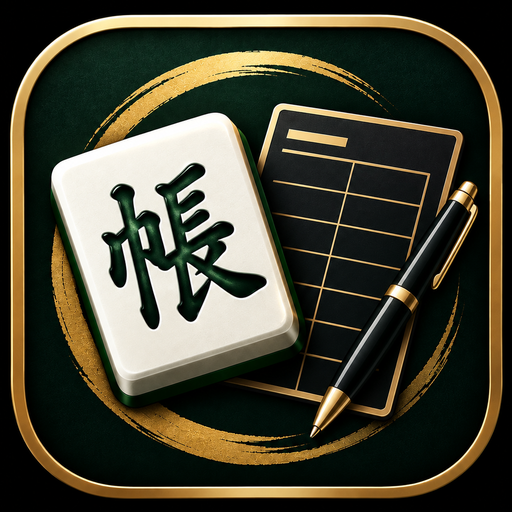
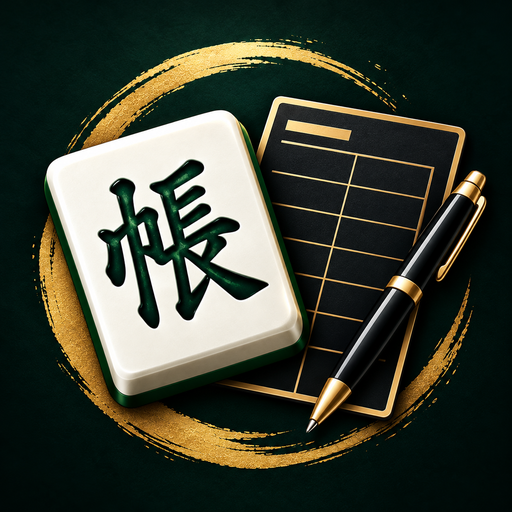
アプリのアイコンを新しいデザインに変更
Claude-Session: https://claude.ai/code/session_01Tiu41ygGN2nDzNE12cUwBZ

Changed region(s): [[0.0, 0.0, 1.0, 1.0]]

diff --git a/sw.js b/sw.js
@@ -1,5 +1,5 @@
 // ネット優先・オフライン時はキャッシュ。更新は次にアプリを開いたときに反映されます。
-const CACHE='jansou-v14';
+const CACHE='jansou-v15';
 const ASSETS=['./','./index.html','./style.css','./app.js','./ocr.js','./cloud.js','./config.js','./lib/supabase.js','./lib/qrcode.js','./manifest.webmanifest','./icon-192.png','./icon-512.png','./apple-touch-icon.png','./favicon-32.png'];
 self.addEventListener('install',e=>{e.waitUntil(caches.open(CACHE).then(c=>c.addAll(ASSETS)));self.skipWaiting();});
 self.addEventListener('activate',e=>{e.waitUntil(caches.keys().then(ks=>Promise.all(ks.filter(k=>k!==CACHE).map(k=>caches.delete(k)))));self.clients.claim();});
